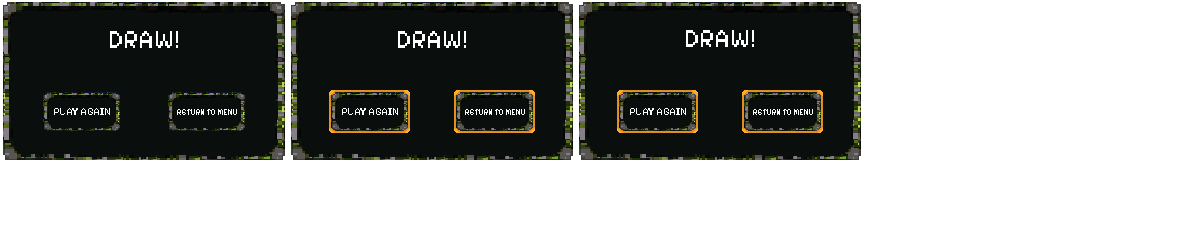
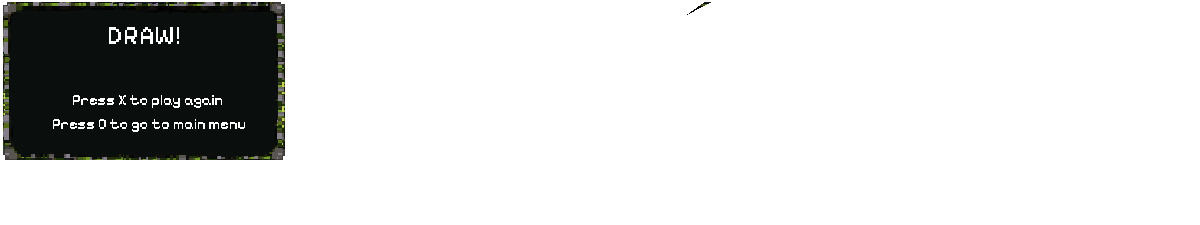
Add WinnerScreenController to handle display of the winner in the game
- Implemented WinnerScreenController class to manage the winner display.
- Inherits from rune.display.Sprite and initializes with position and winner sprite.
- Integrates with the game scene's camera for proper rendering.

diff --git a/src/scene/game/menu/RoleMenu.js b/src/scene/game/menu/RoleMenu.js
@@ -57,14 +57,20 @@ TerraTactics.scene.RoleMenu.prototype.init = function () {
 
     this.stage.addChild(this.m_dpad);
 
-    this.m_player1Container = new rune.display.Sprite(5, 30, 128, 128, "Player1");
+    this.m_player1Container = new rune.display.Sprite(5, 30, 128, 128, "Player1stats");
     this.stage.addChild(this.m_player1Container);
 
-    this.m_player2Container = new rune.display.Sprite(260, 30, 128, 128, "Player2");
+    this.m_player2Container = new rune.display.Sprite(260, 30, 128, 128, "Player2stats");
     this.stage.addChild(this.m_player2Container);
 
     this.m_player1Container.animation.create("idle", [0], 1, true);
     this.m_player2Container.animation.create("idle", [0], 1, true);
+    this.m_player1Container.animation.create("role1", [0], 1, true);
+    this.m_player2Container.animation.create("role1", [0], 1, true);
+    this.m_player1Container.animation.create("role2", [1], 1, true);
+    this.m_player2Container.animation.create("role2", [1], 1, true);
+    this.m_player1Container.animation.create("role3", [2], 1, true);
+    this.m_player2Container.animation.create("role3", [2], 1, true);
 
     this.m_player1Container.animation.gotoAndPlay("idle", 0);
     this.m_player2Container.animation.gotoAndPlay("idle", 0);
@@ -98,10 +104,16 @@ TerraTactics.scene.RoleMenu.prototype.init = function () {
     this.m_rolesPlayer1.animation.create("role1", [0], 1, true);
     this.m_rolesPlayer1.animation.create("role2", [1], 1, true);
     this.m_rolesPlayer1.animation.create("role3", [2], 1, true);
+    this.m_rolesPlayer1.animation.create("locked3", [3], 1, true);
+    this.m_rolesPlayer1.animation.create("locked4", [4], 1, true);
+    this.m_rolesPlayer1.animation.create("locked5", [5], 1, true);
 
     this.m_rolesPlayer2.animation.create("role1", [0], 1, true);
     this.m_rolesPlayer2.animation.create("role2", [1], 1, true);
     this.m_rolesPlayer2.animation.create("role3", [2], 1, true);
+    this.m_rolesPlayer2.animation.create("locked3", [3], 1, true);
+    this.m_rolesPlayer2.animation.create("locked4", [4], 1, true);
+    this.m_rolesPlayer2.animation.create("locked5", [5], 1, true);
 
     this.m_rolesPlayer1.animation.gotoAndPlay("role1", 0);
     this.m_rolesPlayer2.animation.gotoAndPlay("role1", 0);
@@ -166,6 +178,23 @@ TerraTactics.scene.RoleMenu.prototype.m_confirmRole = function (player, role) {
 };
 
 TerraTactics.scene.RoleMenu.prototype.m_updateUIStats = function (role1, role2) {
+    if (this.m_player1Locked) {
+        console.log('test');
+        console.log("role" + role1);
+        this.m_rolesPlayer1.animation.gotoAndPlay("locked" + (role1 + 3), 0);
+    }
+    if (!this.m_player1Locked) {
+        this.m_rolesPlayer1.animation.gotoAndPlay("role" + (role1 + 1), 0);
+        this.m_player1Container.animation.gotoAndPlay("role" + (role1 + 1), 0);
+    }
+
+    if (this.m_player2Locked) {
+        this.m_rolesPlayer2.animation.gotoAndPlay("locked" + (role2 + 3), 0);
+    }
+    if (!this.m_player2Locked) {
+        this.m_rolesPlayer2.animation.gotoAndPlay("role" + (role2 + 1), 0);
+        this.m_player2Container.animation.gotoAndPlay("role" + (role2 + 1), 0);
+    }
 };
 
 /**

diff --git a/src/scene/game/Game.js b/src/scene/game/Game.js
@@ -574,19 +574,19 @@ TerraTactics.scene.Game.prototype.m_displayWinner = function (text) {
     }
 
     this.m_weaponSelector.m_remove();
-
-    var winnerUi = null;
-
-    if (this.m_characters.winnerText === "Player 1 Wins!") {
-        winnerUi = new rune.display.Sprite(0, 0, 400, 400, "player1Win");
-    } else if (this.m_characters.winnerText === "Player 2 Wins!") {
-        winnerUi = new rune.display.Sprite(0, 0, 400, 400, "player2Win");
-    } else {
-        winnerUi = new rune.display.Sprite(0, 0, 48, 48, "draw");
+    var winner = null;
+    switch (text) {
+        case "Player 1 Wins!":
+            winner = "player1Win"
+            break;
+        case "Player 2 Wins!":
+            winner = "player2Win";
+            break;
+        case "Draw!":
+            winner = "draw";
+            break;
     }
-    if (winnerUi !== null) {
-        this.stage.addChild(winnerUi);
-    }
+    this.m_winnerScreenController = new TerraTactics.scene.WinnerScreenController(60, 30, this, winner);
 };
 
 TerraTactics.scene.Game.prototype.m_updateArrow = function () {
@@ -610,6 +610,13 @@ TerraTactics.scene.Game.prototype.update = function (step) {
     this.m_updateArrow();
 
     if (this.m_gameEnd === true) {
+        if (this.m_playerControls.player1.confirm || this.m_playerControls.player2.confirm) {
+            this.application.scenes.load([new TerraTactics.scene.RoleMenu()]);
+        }
+
+        if (this.m_playerControls.player1.circle || this.m_playerControls.player2.circle) {
+            this.application.scenes.load([new TerraTactics.scene.MainMenu()]);
+        }
         if (this.m_victory.ended) {
             return;
         }
@@ -620,14 +627,13 @@ TerraTactics.scene.Game.prototype.update = function (step) {
             for (var i = 0; i < this.m_mapCopyFront.length; i++) {
                 this.stage.m_map.front.setTileValueAt(i, this.m_mapCopyFront[i]);
             }
-
-            //   this.application.scenes.load([new TerraTactics.scene.GameOverMenu(this.m_characters.winnerText)]);
         }
         this.m_gameOverLoaded = true;
         return;
     }
 
     if (this.m_characters.winnerText !== null) {
+        this.m_lavaController.m_disposeTween();
         this.m_displayWinner(this.m_characters.winnerText);
         if (this.m_activePlayer != null && this.m_activePlayer.character != null) {
             this.m_activePlayer.character.m_grounded = true;

diff --git a/src/scene/game/WinnerScreenController.js b/src/scene/game/WinnerScreenController.js
@@ -1,0 +1,15 @@
+
+TerraTactics.scene.WinnerScreenController = function (x, y, gameScene, winner) {
+    rune.display.Sprite.call(this, x, y, 288, 192, winner);
+    this.m_gameScene = gameScene;
+    this.m_camera = this.m_gameScene.cameras.getCameraAt(0);
+    this.m_gameScene = gameScene;
+    this.m_camera.addChild(this);
+};
+
+//------------------------------------------------------------------------------
+// Inheritance
+//------------------------------------------------------------------------------
+
+TerraTactics.scene.WinnerScreenController.prototype = Object.create(rune.display.Sprite.prototype);
+TerraTactics.scene.WinnerScreenController.prototype.constructor = TerraTactics.scene.WinnerScreenController;

diff --git a/src/scene/game/LavaController.js b/src/scene/game/LavaController.js
@@ -40,6 +40,10 @@ TerraTactics.scene.LavaController = function (gameScene) {
 TerraTactics.scene.LavaController.prototype = Object.create(rune.display.Sprite.prototype);
 TerraTactics.scene.LavaController.prototype.constructor = TerraTactics.scene.LavaController;
 
+TerraTactics.scene.LavaController.prototype.m_disposeTween = function () {
+    this.m_gameScene.tweens.remove(this.m_lavaTween);
+};
+
 TerraTactics.scene.LavaController.prototype.m_checkCollisions = function (activePlayer, inactivePlayers) {
     if (activePlayer != null && activePlayer.character != null) {
         if (activePlayer.character.bottom >= this.top + 18) {

diff --git a/bin-debug/index.html b/bin-debug/index.html
@@ -25,6 +25,7 @@
     <script src="./../src/scene/game/LavaController.js"></script>
     <script src="./../src/scene/game/GamepadAimController.js"></script>
     <script src="./../src/scene/game/PlayerInputController.js"></script>
+    <script src="./../src/scene/game/WinnerScreenController.js"></script>
     <script src="./../src/scene/game/Game.js"></script>
     <script src="./../src/powerups/PowerUp.js"></script>
     <script src="./../src/powerups/Health.js"></script>

diff --git a/src/util/MappingGamepad.js b/src/util/MappingGamepad.js
@@ -88,6 +88,12 @@ Object.defineProperty(TerraTactics.util.MappingGamepad.prototype, "leftUp", {
     }
 });
 
+Object.defineProperty(TerraTactics.util.MappingGamepad.prototype, "circle", {
+    get: function () {
+        return this.m_justPressed(TerraTactics.util.MappingGamepad.BUTTON_CIRCLE);
+    }
+});
+
 /**
  * Up, once per press.
  *

diff --git a/src/util/Controls.js b/src/util/Controls.js
@@ -268,6 +268,12 @@ Object.defineProperty(TerraTactics.util.Controls.prototype, "confirm", {
     }
 });
 
+Object.defineProperty(TerraTactics.util.Controls.prototype, "circle", {
+    get: function () {
+        return this.m_keyboard.circle || this.m_gamepad.circle;
+    }
+});
+
 /**
  * Previous weapon.
  *
